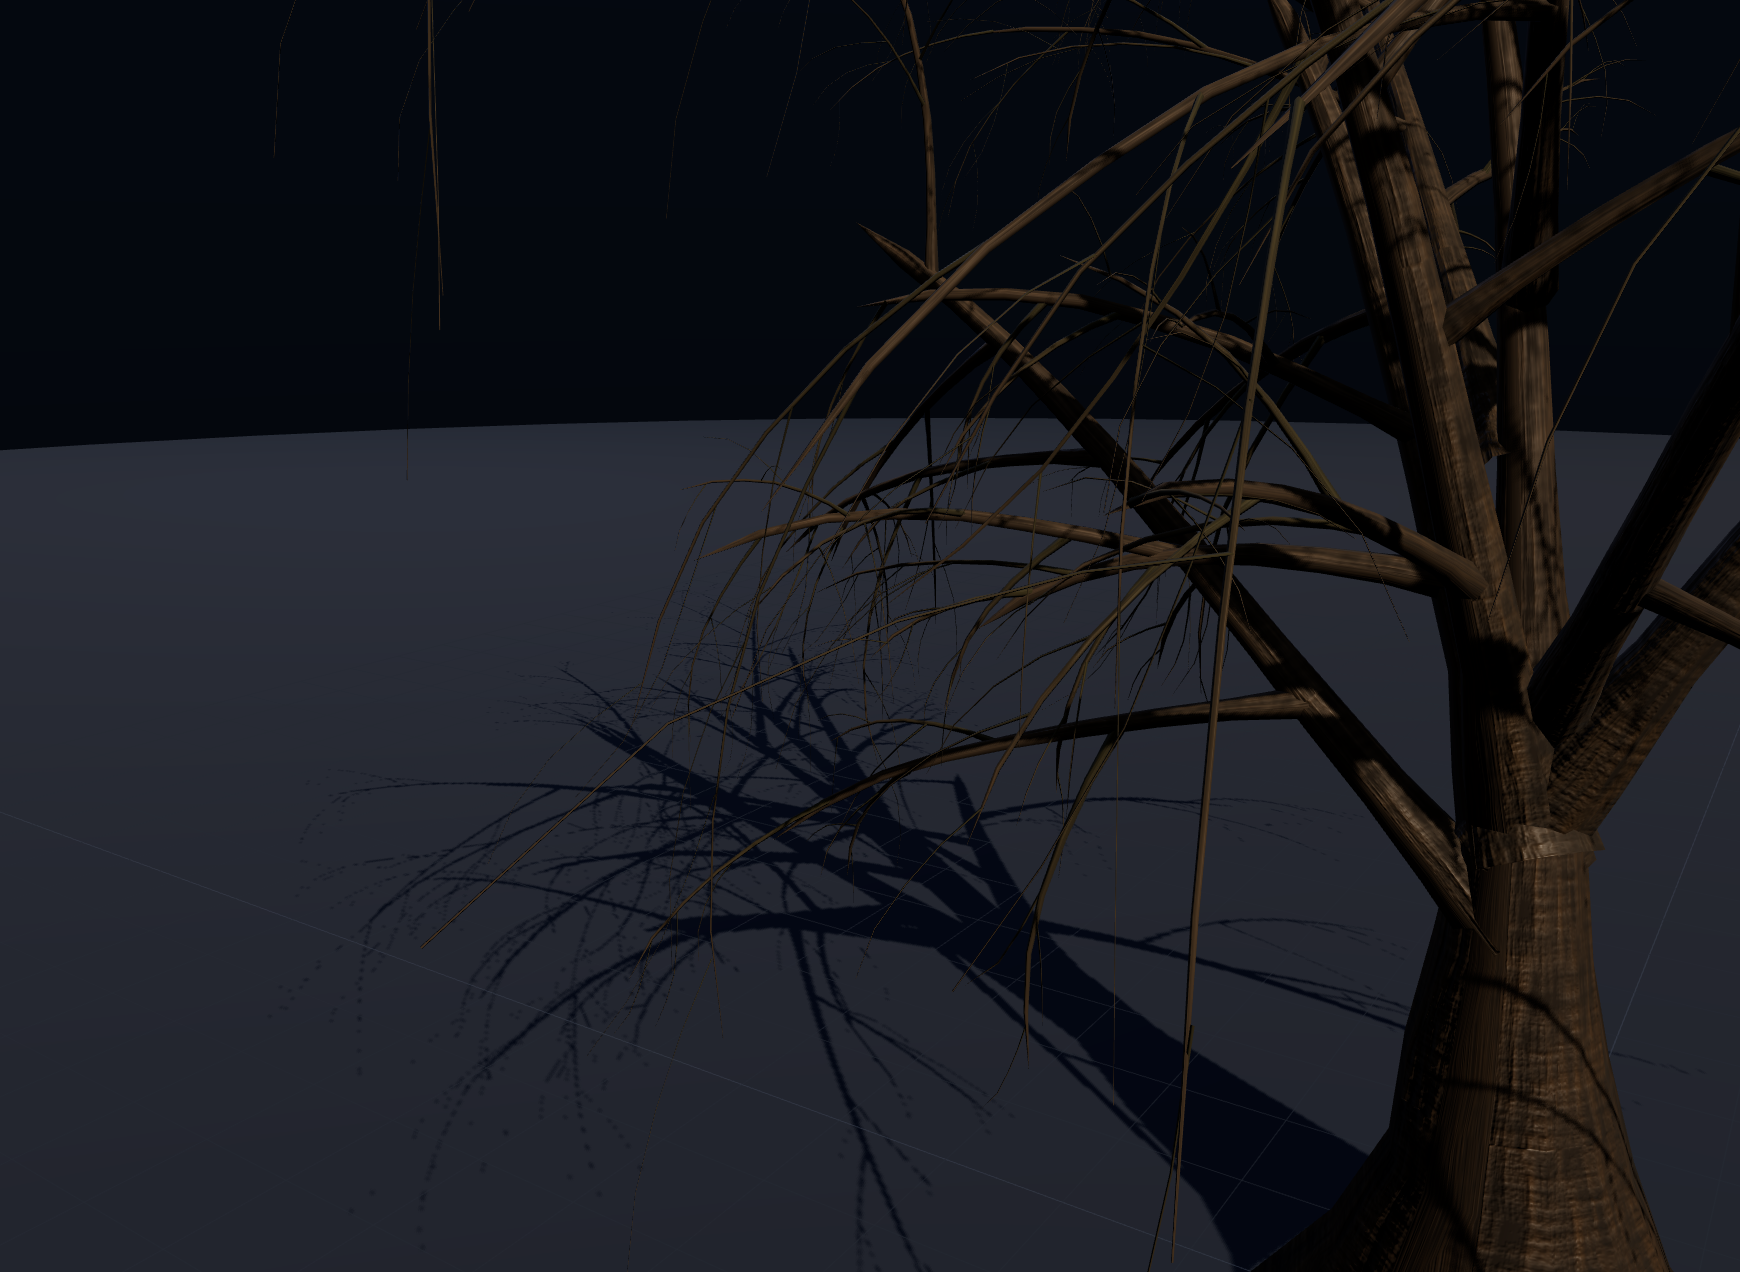
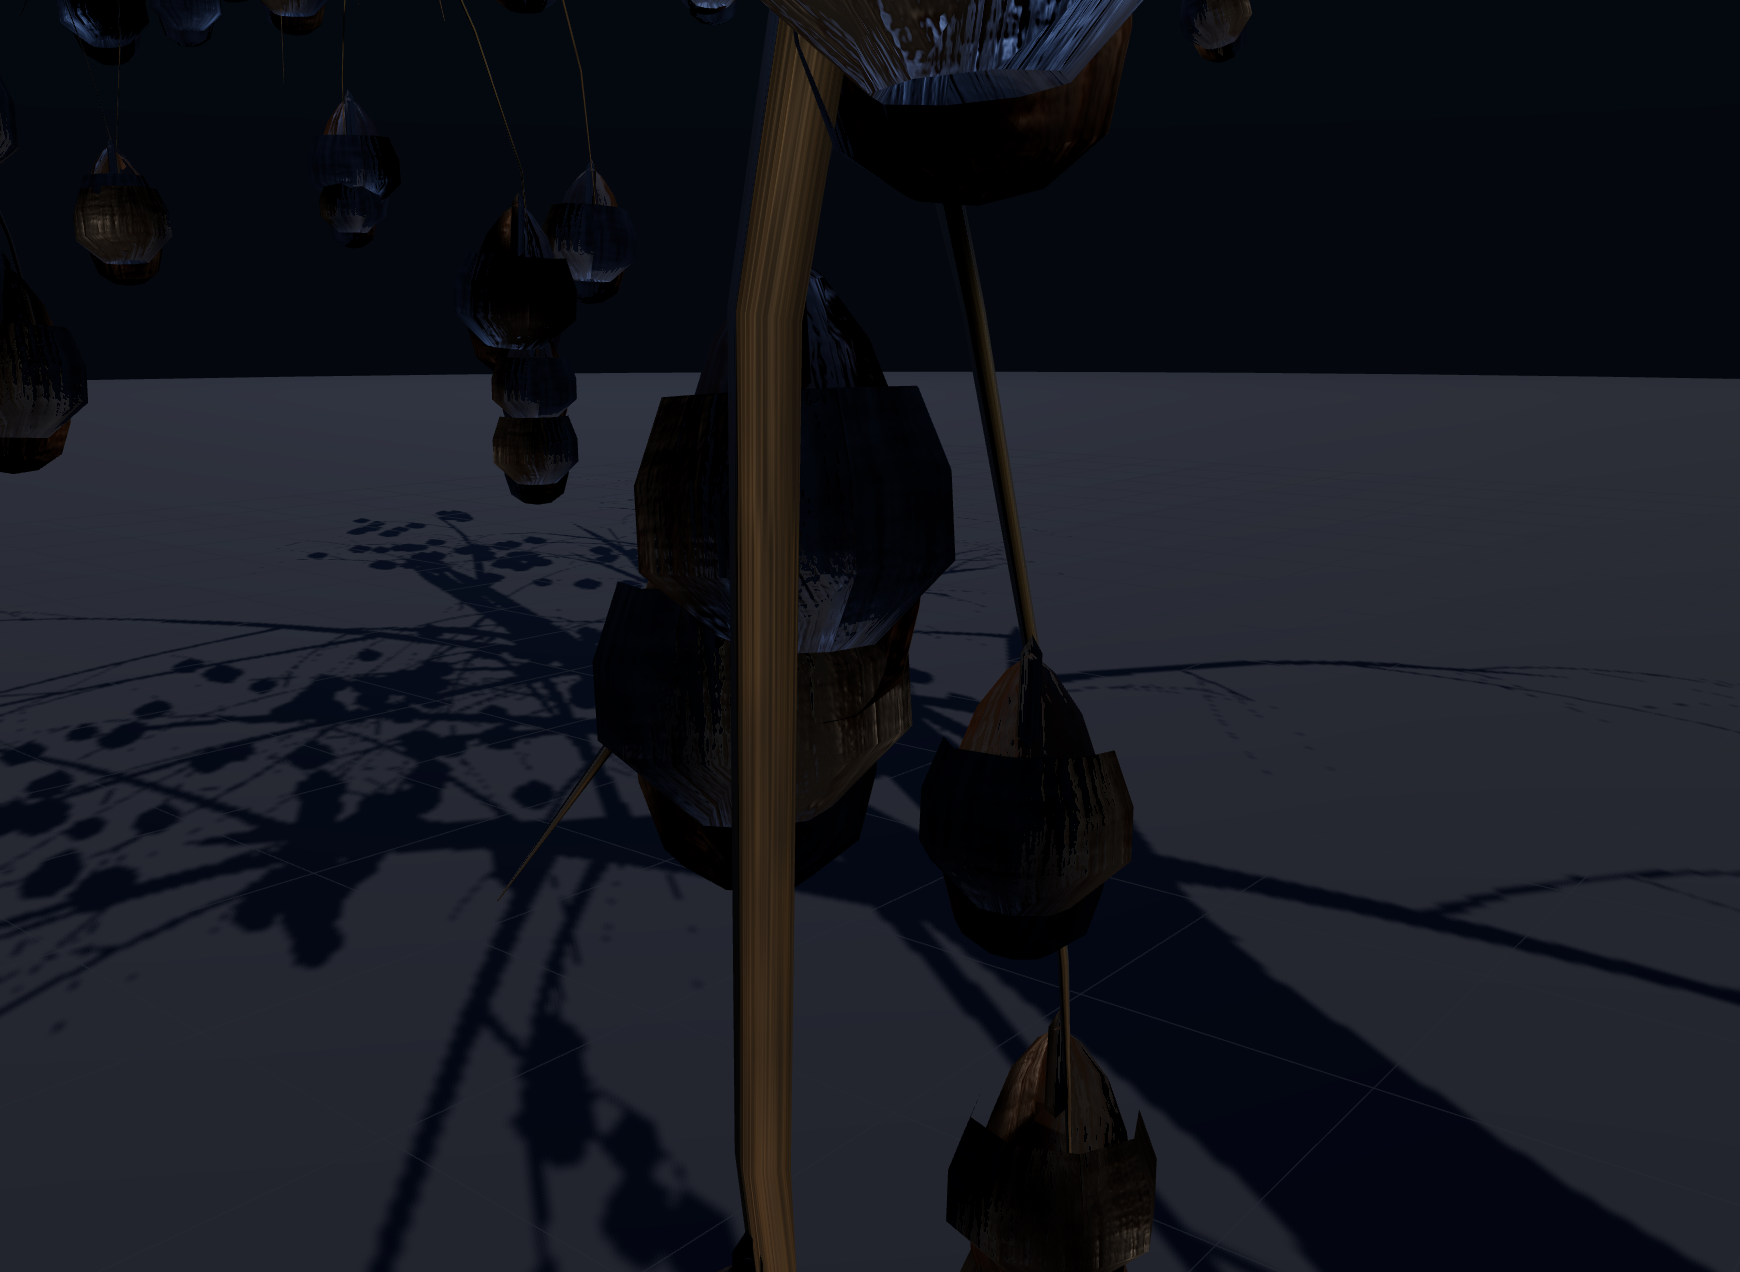
fix(fruit): 果实三角面索引基准错了 -> 果实其实一直是坏的 (这才是"没有果实"的根因)
真正的 bug (比"看不见"严重):
  pushFruitInstance 用 tpl.offset 作为三角面索引基准, 但每个枝条都会**新建一个模板**
  (offset 从 0 开始), 而顶点写进的是**共享累加器** fruitAcc。
  于是第二簇之后的果实, 索引全部指向前面的顶点 -> 果实被连成一堆杂乱三角面。
  实测证据: 果实节点 "顶点=438 面=0" (三角面全归到别的节点去了), 簇包围盒被拉成 1.2m。

修复:
- pushFruitInstance 改为以 acc.vertexCount 为基准 (与模板复用无关, 永远正确)
- 簇内偏移沿枝长参数并**限制在 ±6%** -> 短枝上不会把同簇果实甩到枝条两端
- 果实节点改为"懒创建": 只在真要放果实时才建槽 -> 不再产生 0 面的空果实节点

数据对比 (橡树 mature/summer, 种子随机):
  修复前: 果实节点 448 个 / 265 个 0 面 / 首个节点 面=0
  修复后: 果实节点 183 个 / 0 个空槽 / 总果面 82080 (每果 216 面) / 索引越界 0

新增自检断言 (这段 bug 之前测不出来, 因为只验证了"摆放数学"没验证"索引"):
- 果实节点没有空槽, 每个都带三角面
- 果实三角面数与果实数匹配 (每果 100~400 面; 索引错位时该值会异常偏小甚至为 0)
- 挂果点贴面 <= 2cm (保留)

验证: selftest 105/105; audit 0 失效; build 通过;
实拍 docs/preview-oak-acorn.png (隐藏叶片后对准果实节点包围盒): 蛋形坚果 + 深色壳斗帽 +
短果柄, 成簇垂挂在枝条下方, 与参考图一致。

diff --git a/dev/fruit-check.html b/dev/fruit-check.html
@@ -1,0 +1,78 @@
+<!doctype html>
+<html lang="zh-CN">
+  <head><meta charset="UTF-8" /><title>fruit-check: booting</title></head>
+  <body style="margin:0;background:#111;color:#ddd;font:12px monospace">
+    <iframe id="f" src="/" style="width:1500px;height:900px;border:0"></iframe>
+    <pre id="out">…</pre>
+    <script type="module">
+      const RECV = 'http://127.0.0.1:5274/shot'
+      const f = document.getElementById('f')
+      const sleep = (ms) => new Promise((r) => setTimeout(r, ms))
+      const lines = []
+      const bar = (l) => { lines.push(l); document.getElementById('out').textContent = lines.join('\n') }
+      let win, doc, state, sc
+      const errs = []
+      f.addEventListener('load', () => {
+        win = f.contentWindow; doc = f.contentDocument; state = win.__fastTree; sc = win.__fastTreeScene
+        win.addEventListener('error', (e) => errs.push('ERR:' + String(e.message).slice(0, 120)))
+      })
+
+      async function shot(name) {
+        const canvas = doc.querySelector('canvas')
+        for (let i = 0; i < 6; i++) { sc.renderer.render(sc.scene, sc.camera); await sleep(120) }
+        await fetch(`${RECV}?name=${name}`, { method: 'POST', body: canvas.toDataURL('image/png') })
+        bar('shot ' + name)
+      }
+
+      setTimeout(async () => {
+        try {
+          for (let i = 0; i < 40 && !sc.barkMesh; i++) await sleep(150)
+          win.__fastTreeApi.applyClassification('oak', 'mature', 'summer')
+          await sleep(200)
+          state.params.leaves.enabled = false      // 只看枝+果
+          win.__fastTreeSceneApi.rebuildNow(true)
+          await sleep(300)
+
+          const st = state.stats
+          bar(`stats.fruit=${st.fruit} 挂果点=${(st.fruitAttach || []).length} barkTri=${st.barkTriangles}`)
+          // 1) 果实几何是否真的进了树皮网格
+          const geo = sc.barkMesh.geometry
+          const nodeAttr = geo.attributes.aNodeId.array
+          const fruitNodes = (sc.nodes || []).filter((n) => n.type === 'fruit')
+          const fruitIds = new Set(fruitNodes.map((n) => n.id))
+          let fruitVerts = 0
+          for (let i = 0; i < nodeAttr.length; i++) if (fruitIds.has(nodeAttr[i])) fruitVerts++
+          bar(`果实节点数=${fruitNodes.length} 果实顶点数=${fruitVerts} (共 ${nodeAttr.length} 顶点)`)
+          const first = fruitNodes.find((n) => n.bbox && n.stats.vertices > 0)
+          if (first) {
+            const bb = first.bbox
+            const size = [bb.max[0] - bb.min[0], bb.max[1] - bb.min[1], bb.max[2] - bb.min[2]]
+            bar(`首个果实节点: ${first.name} 顶点=${first.stats.vertices} 面=${first.stats.triangles} 尺寸=${size.map((x) => x.toFixed(3)).join(' x ')}`)
+            // 2) 把相机对准这个果实簇的包围盒中心
+            const c = [(bb.min[0] + bb.max[0]) / 2, (bb.min[1] + bb.max[1]) / 2, (bb.min[2] + bb.max[2]) / 2]
+            sc.controls.target.set(c[0], c[1], c[2])
+            sc.camera.position.set(c[0] + 0.45, c[1] + 0.15, c[2] + 0.55)
+            sc.camera.lookAt(sc.controls.target)
+            await shot('fruit-closeup')
+            // 3) 统计画面里"果色"(暖棕)像素占比
+            const cv = doc.querySelector('canvas')
+            const t = doc.createElement('canvas'); t.width = 200; t.height = 150
+            const cx = t.getContext('2d'); cx.drawImage(cv, 0, 0, 200, 150)
+            const d = cx.getImageData(0, 0, 200, 150).data
+            let warm = 0, total = 0
+            for (let i = 0; i < d.length; i += 4) {
+              total++
+              const r = d[i], g = d[i + 1], bl = d[i + 2]
+              if (r > g + 10 && g > bl + 5 && r > 60) warm++
+            }
+            bar(`画面中暖色(果实/树皮)像素占比 = ${(100 * warm / total).toFixed(1)}%`)
+          } else bar('!! 没有带几何的果实节点')
+          bar('errs=' + (errs.length ? errs.slice(0, 2).join(' ;; ') : 'none'))
+          document.title = 'FRUITCHECK-OK :: ' + lines.join(' || ').slice(0, 1700)
+        } catch (e) {
+          document.title = 'FRUITCHECK-EX :: ' + (e && e.stack ? e.stack : e).toString().slice(0, 500)
+        }
+      }, 4200)
+    </script>
+  </body>
+</html>

diff --git a/src/core/treeBuilder.js b/src/core/treeBuilder.js
@@ -495,20 +495,10 @@ export function buildTree(params) {
       const tt = 0.35 + 0.65 * ((k + 0.5) / count) + rng.signed() * 0.06
       const fr0 = sampleFrame(frames, Math.min(0.98, Math.max(0.05, tt)))
       if (!fr0) continue
-      if (fruitSlot < 0) {
-        levelFruitCounter[level] = (levelFruitCounter[level] || 0) + 1
-        fruitSlot = addSlot({
-          type: 'fruit',
-          level,
-          group: `fruit-L${level}`,
-          name: `L${level} 果实簇 #${levelFruitCounter[level]}`,
-          parent: parentSlot,
-          meta: { fruit: 0, type: F.type },
-        })
-      }
       for (let j = 0; j < per; j++) {
         // 同簇果实沿**枝长参数**散开 (不是在世界坐标里平移) -> 永远贴在枝条表面上
-        const dT = (rng.range(-F.clusterRadius, F.clusterRadius) * 1.4) / branchLen
+        // 簇内偏移: 换算成枝长参数后**上限 6%** —— 短枝上也不会把同簇果实甩到枝条两端
+        const dT = Math.max(-0.06, Math.min(0.06, (rng.range(-F.clusterRadius, F.clusterRadius) * 1.2) / branchLen))
         const t = Math.min(0.995, Math.max(0.02, tt + dT))
         const fr = sampleFrame(frames, t)
         if (!fr) continue
@@ -525,6 +515,17 @@ export function buildTree(params) {
         const pos = surface.clone().addScaledVector(stemDir, -stemHalf * scaleY * 0.92)
         if (fruitCount >= Math.max(0, Math.round(F.maxCount === undefined ? 420 : F.maxCount))) continue
         if (fruitCount > 0 && !rng.chance(F.chance === undefined ? 0.5 : F.chance)) continue
+        if (fruitSlot < 0) {
+          levelFruitCounter[level] = (levelFruitCounter[level] || 0) + 1
+          fruitSlot = addSlot({
+            type: 'fruit',
+            level,
+            group: `fruit-L${level}`,
+            name: `L${level} 果实簇 #${levelFruitCounter[level]}`,
+            parent: parentSlot,
+            meta: { fruit: 0, type: F.type },
+          })
+        }
         const tint = new THREE.Color(1, 1, 1).multiplyScalar(Math.max(0.2, 1 + rng.signed() * F.colorVariance))
         pushFruitInstance(fruitAcc, fruitTpl, {
           pos,

diff --git a/src/core/fruit.js b/src/core/fruit.js
@@ -125,6 +125,9 @@ export function buildFruitTemplate(o = {}) {
  *          colorTint:THREE.Color, wind:number, phase:number, grow:number, origin:THREE.Vector3, nodeId:number}} o
  */
 export function pushFruitInstance(acc, tpl, o) {
+  // 关键: 三角面索引必须基于"写入前的累加器顶点数"。
+  // 模板会被多处复用 (tpl.offset 会失效), 用 acc.vertexCount 才永远正确。
+  const base = acc.vertexCount
   const scale = o.scale === undefined ? 1 : o.scale
   const sx = typeof scale === 'number' ? scale : scale.x
   const sy = typeof scale === 'number' ? scale : scale.y
@@ -159,7 +162,6 @@ export function pushFruitInstance(acc, tpl, o) {
     )
   }
   for (let i = 0; i < tpl.index.length; i += 3) {
-    acc.tri(tpl.offset + tpl.index[i], tpl.offset + tpl.index[i + 1], tpl.offset + tpl.index[i + 2])
+    acc.tri(base + tpl.index[i], base + tpl.index[i + 1], base + tpl.index[i + 2])
   }
-  tpl.offset += tpl.vertexCount
 }
